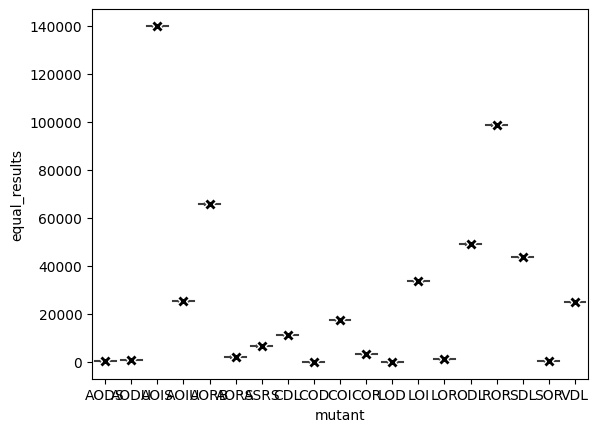
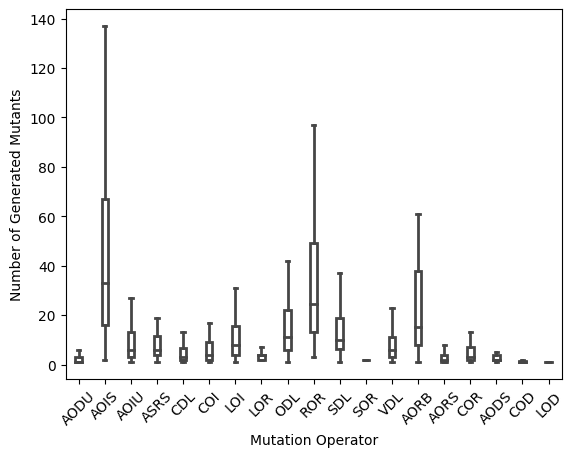
Fixed violin plots

diff --git a/mbta/transcoder/violin_plot_mtss_joint.py b/mbta/transcoder/violin_plot_mtss_joint.py
@@ -10,20 +10,21 @@ from progress.bar import Bar
 def save_violin_plot(data, y_column, y_label, output_path):
     plt.figure()
     # Create violin plots without mini-boxplots inside.
-    violin = sns.violinplot(x='Translator', y=y_column, data=data,
-                            palette="Accent",
-                            cut=0, bw=0.03, inner=None)
-    violin.set(ylabel=y_label)
-    sns.boxplot(x='Translator', y=y_column, data=data, width=0.25,
-                showfliers=False, showmeans=True,
-                meanprops=dict(marker='X', markerfacecolor='black', markeredgecolor='white',
-                               markersize=8, zorder=3),
+    # violin = sns.violinplot(x="Mutation Operator", y=y_column, data=data,
+    #                         palette="Accent",
+    #                         cut=0, bw=0.03, inner=None)
+    # violin.set(ylabel=y_label)
+    sns.boxplot(x="Mutation Operator", y=y_column, data=data, width=0.25,
+                showfliers=False,
+                # meanprops=dict(marker='X', markerfacecolor='black', markeredgecolor='white',
+                #                markersize=8, zorder=3),
                 boxprops=dict(facecolor=(0, 0, 0, 0),
-                              linewidth=3, zorder=3),
-                whiskerprops=dict(linewidth=3),
-                capprops=dict(linewidth=3),
-                medianprops=dict(linewidth=3))
+                              linewidth=2, zorder=3),
+                whiskerprops=dict(linewidth=2),
+                capprops=dict(linewidth=2),
+                medianprops=dict(linewidth=2))
     plt.legend(frameon=False, fontsize=15, loc='upper left')
+    plt.xticks(rotation=45)
 
     plt.savefig(output_path, bbox_inches='tight')
 
@@ -41,45 +42,54 @@ if __name__ == "__main__":
     percentage = lambda item: sum(item) / len(item)
     aggregate_mutants = lambda item: not all(item)
 
+    operator_mts = "Mutation-based Translation Score"
+    operator_grouped: DataFrame = data_transcoder.replace(to_replace=r'_.*', value='', regex=True)
+    operator_grouped = operator_grouped.groupby(["class", "mutant"]).agg({"equal_results": len}).reset_index()
+    operator_grouped["equal_results"] = operator_grouped["equal_results"] / 10
+    number_name = "Number of Generated Mutants"
+    operator_grouped = operator_grouped.rename(columns={"equal_results": number_name, "mutant": "Mutation Operator"})
+    print(operator_grouped)
+    save_violin_plot(data=operator_grouped, y_column=number_name, y_label=number_name, output_path="plots/violin_operator_mts.png")
+
     # Find the mutants with all at least one different output outputs
-    mts_name = "Mutation-based Translation Score"
-    grouped = data.groupby(['Translator', 'class', 'mutant']).agg({"equal_results": aggregate_mutants})
-    grouped = grouped.rename(columns={"equal_results": mts_name})
-    # Group by class and get the percentage of mutants that were killed
-    grouped = grouped.groupby(["Translator", "class"]).agg({mts_name: percentage})
-    grouped = grouped.reset_index()
-
-    save_violin_plot(data=grouped, y_column=mts_name, y_label=mts_name, output_path="plots/violin_mts_joint.png")
-
-    data_transcoder = pd.read_csv("csvs/merged_original.csv")
-    data_transcoder["Translator"] = "TransCoder"
-    data_j2py = pd.read_csv("../j2py/csvs/merged_original.csv")
-    data_j2py["Translator"] = "j2py"
-
-    data = data_transcoder.append(data_j2py)
-    # Group by class and get the percentage of mutants that survived
-    original_grouped = data.groupby(['Translator', "class"]).agg({'equal_results': percentage})
-    accuracy_name = "Computational Accuracy"
-    original_grouped = original_grouped.rename(columns={"equal_results": accuracy_name})
-    original_grouped = original_grouped.reset_index()
-
-    save_violin_plot(data=original_grouped, y_column=accuracy_name, y_label=accuracy_name, output_path='plots/violin_computational_accuracy_joint.png')
-
-    merged = grouped.merge(original_grouped, on=["class", "Translator"])
-    merged = merged.reset_index()
-    print(merged)
-
-    temp = merged[merged["Translator"] == "TransCoder"]
-    plt.figure()
-    plt.scatter(temp[mts_name], temp[accuracy_name], c="#88c088")
-    plt.xlabel(mts_name)
-    plt.ylabel(accuracy_name)
-    plt.savefig("plots/scatter_transcoder.png", bbox_inches='tight')
-
-    temp = merged[merged["Translator"] == "j2py"]
-    plt.figure()
-    plt.scatter(temp[mts_name], temp[accuracy_name], c="#bfb3cf")
-    plt.xlabel(mts_name)
-    plt.ylabel(accuracy_name)
-    plt.savefig("plots/scatter_j2py.png", bbox_inches='tight')
+    # mts_name = "Mutation-based Translation Score"
+    # grouped = data.groupby(['Translator', 'class', 'mutant']).agg({"equal_results": aggregate_mutants})
+    # grouped = grouped.rename(columns={"equal_results": mts_name})
+    # # Group by class and get the percentage of mutants that were killed
+    # grouped = grouped.groupby(["Translator", "class"]).agg({mts_name: percentage})
+    # grouped = grouped.reset_index()
+    #
+    # save_violin_plot(data=grouped, y_column=mts_name, y_label=mts_name, output_path="plots/violin_mts_joint.png")
+    #
+    # data_transcoder = pd.read_csv("csvs/merged_original.csv")
+    # data_transcoder["Translator"] = "TransCoder"
+    # data_j2py = pd.read_csv("../j2py/csvs/merged_original.csv")
+    # data_j2py["Translator"] = "j2py"
+    #
+    # data = data_transcoder.append(data_j2py)
+    # # Group by class and get the percentage of mutants that survived
+    # original_grouped = data.groupby(['Translator', "class"]).agg({'equal_results': percentage})
+    # accuracy_name = "Computational Accuracy"
+    # original_grouped = original_grouped.rename(columns={"equal_results": accuracy_name})
+    # original_grouped = original_grouped.reset_index()
+    #
+    # save_violin_plot(data=original_grouped, y_column=accuracy_name, y_label=accuracy_name, output_path='plots/violin_computational_accuracy_joint.png')
+    #
+    # merged = grouped.merge(original_grouped, on=["class", "Translator"])
+    # merged = merged.reset_index()
+    # print(merged)
+    #
+    # temp = merged[merged["Translator"] == "TransCoder"]
+    # plt.figure()
+    # plt.scatter(temp[mts_name], temp[accuracy_name], c="#88c088")
+    # plt.xlabel(mts_name)
+    # plt.ylabel(accuracy_name)
+    # plt.savefig("plots/scatter_transcoder.png", bbox_inches='tight')
+    #
+    # temp = merged[merged["Translator"] == "j2py"]
+    # plt.figure()
+    # plt.scatter(temp[mts_name], temp[accuracy_name], c="#bfb3cf")
+    # plt.xlabel(mts_name)
+    # plt.ylabel(accuracy_name)
+    # plt.savefig("plots/scatter_j2py.png", bbox_inches='tight')
 

diff --git a/mbta/j2py/violin_plot_mtss.py b/mbta/j2py/violin_plot_mtss.py
@@ -22,7 +22,7 @@ if __name__ == "__main__":
     print(f"Number of classes: {len(data.groupby(['class']))}")
     print(f"Number of non-anomalous mutants: {len(data.groupby(['class', 'mutant']))}")
     print(f"Number of killed mutants: {len(grouped[grouped[mts_name] != 0])}")
-    print(f"General MTS: {grouped.agg({mts_name: percentage})[mts_name]}")
+    print(f"General MTS: {len(grouped[grouped[mts_name] != 0]) / 52386}")
     # Group by class and get the percentage of mutants that were killed
     grouped = grouped.groupby(["class"]).agg({mts_name: percentage})
 
@@ -87,7 +87,8 @@ if __name__ == "__main__":
     plt.ylabel(accuracy_name)
     plt.savefig("plots/scatter_j2py.png")
 
-    # merged = merged[merged[mts_name] == 1]
+    # merged = merged[merged[mts_name] > 0]
     # merged = merged[merged[accuracy_name] == 1]
-    # print(merged)
+    print(merged)
     print(stats.spearmanr(merged[mts_name], merged[accuracy_name]))
+    print(stats.kendalltau(merged[mts_name], merged[accuracy_name]))

diff --git a/mbta/transcoder/compute_scores.py b/mbta/transcoder/compute_scores.py
@@ -82,5 +82,7 @@ if __name__ == "__main__":
     # merged[merged[mts_name] == 0].append(merged[merged[mts_name] == 1]).to_csv("boundaries_mutants.csv")
     # merged = merged[merged[mts_name] > 0]
     # merged = merged[merged[accuracy_name] == 1]
-    # print(merged)
-    # print(stats.spearmanr(merged[mts_name], merged[accuracy_name]))
+    print(merged)
+    print(stats.spearmanr(merged[mts_name], merged[accuracy_name]))
+    print(stats.kendalltau(merged[mts_name], merged[accuracy_name]))
+
